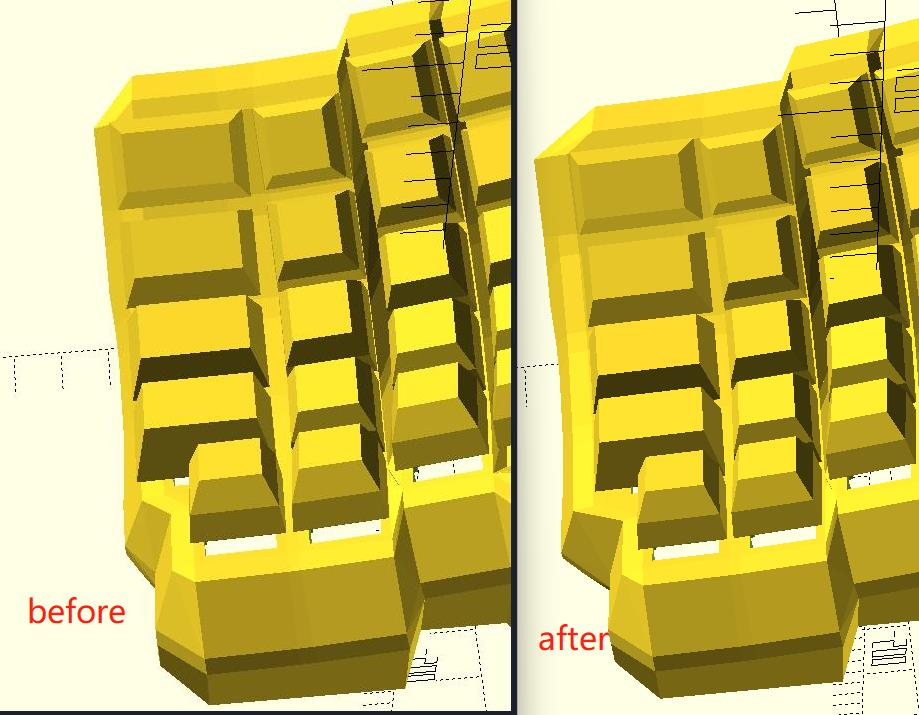
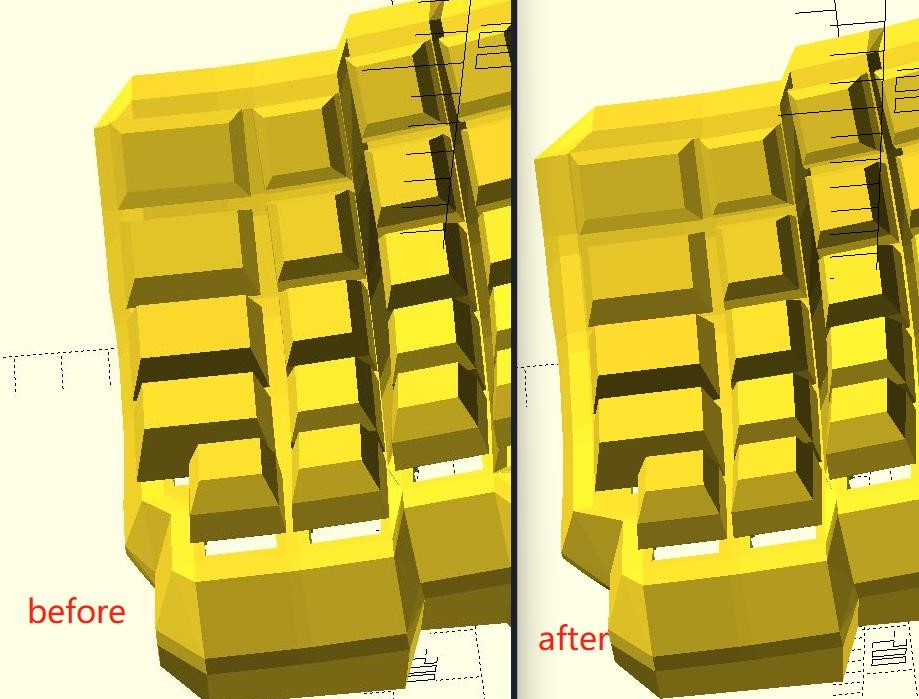
Updated screw location

diff --git a/src/dactyl_manuform.py b/src/dactyl_manuform.py
@@ -1724,12 +1724,14 @@ def make_dactyl():
 
     def screw_insert_all_shapes(bottom_radius, top_radius, height, offset=0, side='right'):
         print('screw_insert_all_shapes()')
-        pinky_offset = 6.5 if pinky_1_5U else 0
+        pinky_offset = 7.5 if pinky_1_5U else 0
+        thumbcluster_offset_x = 0 if side == "right" else 5
+        thumbcluster_offset_y = 0 if side == "right" else 4
 
         shape = (
             translate(screw_insert(0, 0, bottom_radius, top_radius, height, side=side), (0, 0, offset)),  # rear left
             translate(screw_insert(0, lastrow - 2, bottom_radius, top_radius, height, side=side),
-                      (10, -20, offset)),  # front left
+                      (10 + thumbcluster_offset_x, -20 + thumbcluster_offset_y, offset)),  # front left
             translate(screw_insert(4, lastrow, bottom_radius, top_radius, height, side=side),
                       (0, 0, offset)),  # front middle
             translate(screw_insert(3, 0, bottom_radius, top_radius, height, side=side), (0, 0, offset)),  # rear middle
